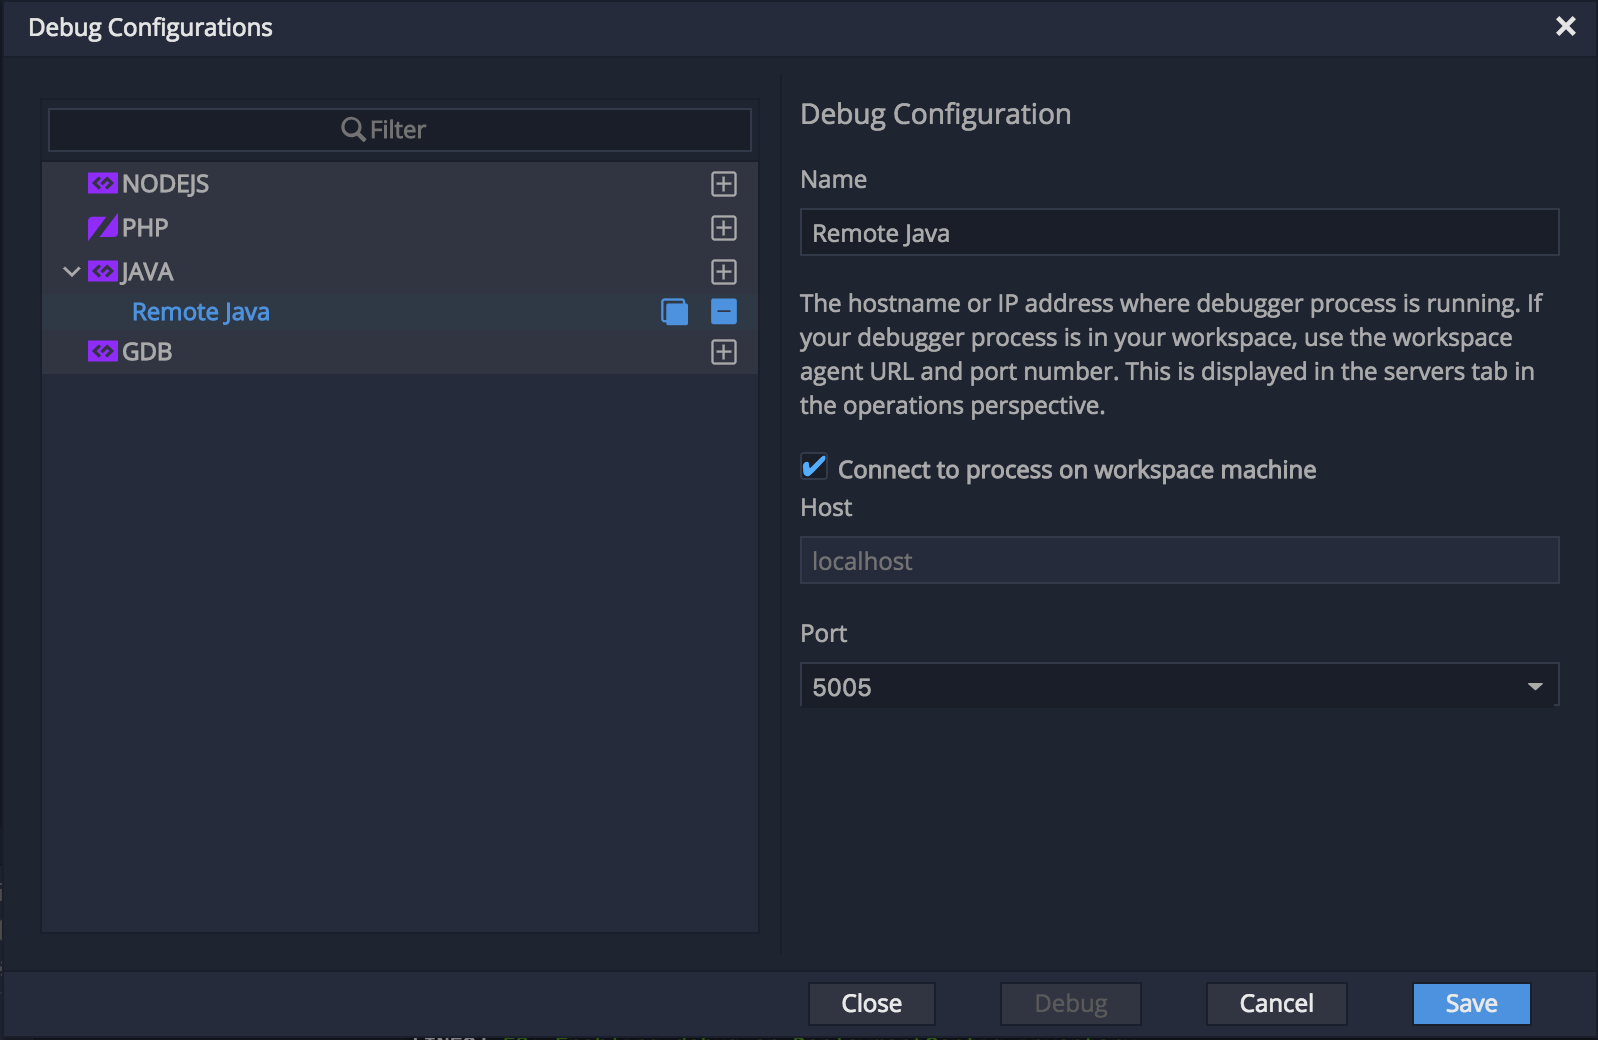
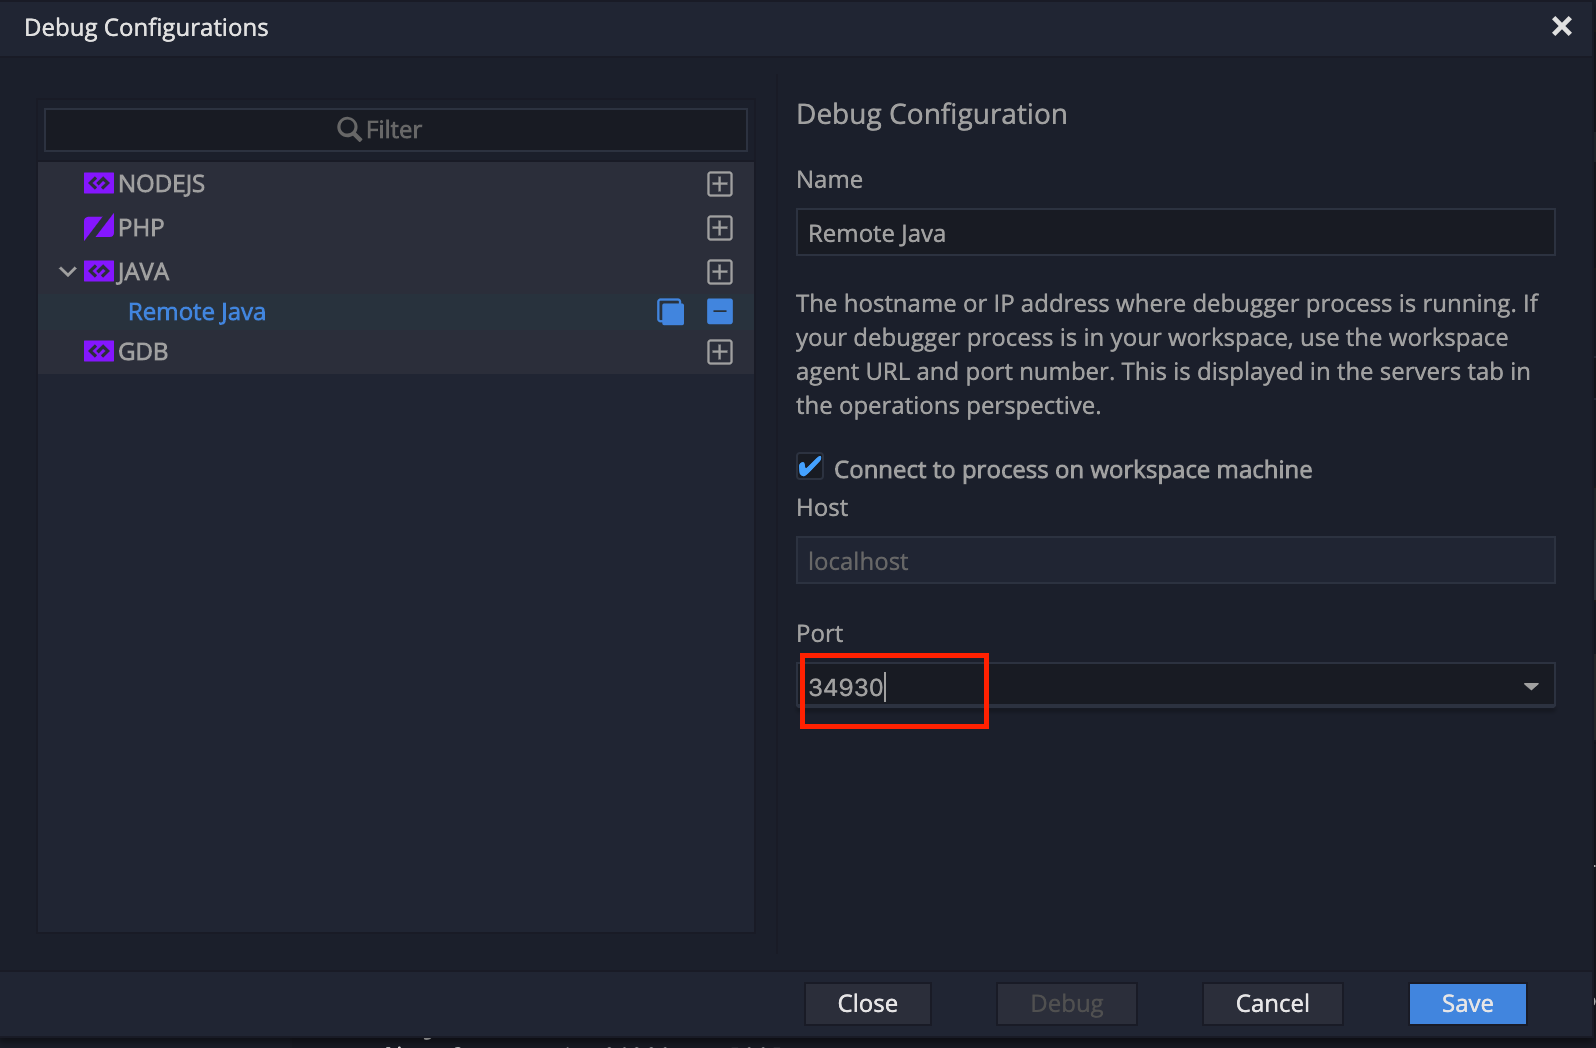
add several images

diff --git a/instructions/squash.md b/instructions/squash.md
@@ -70,9 +70,10 @@ happens when API Gateway makes this call:
 > `{{INVENTORY_ROUTE_HOST}}` with the Inventory route url from your project.
 
 ~~~shell
-$ curl http://{{INVENTORY_ROUTE_HOST}}/api/inventory/444436
+$ curl --verbose http://{{INVENTORY_ROUTE_HOST}}/api/inventory/444436
 ~~~
-
+or use **Command** names **curl inventory GET API**
+![Icons]({% image_path curl-inventory-1.png %}){:width="700px"}
 
 > You can use `curl -v` to see all the headers sent and received. You would received 
 > a `HTTP/1.1 204 No Content` response for the above request.
@@ -128,7 +129,7 @@ NAME                           READY     STATUS    RESTARTS   AGE
 inventory-1-l22lz              2/2       Running   2          26m
 ~~~
 
-Using *squashctl* on the **Terminal** window or you can use the **Command** **Debug Inventory**
+Using *squashctl* on the **Terminal** window or you can use the **Command** **Debug Squash Inventory**
 
 ~~~shell
 $ squashctl --machine --namespace coolstoreXX --debugger java --squash-namespace infraXX
@@ -137,7 +138,11 @@ $ squashctl --machine --namespace coolstoreXX --debugger java --squash-namespace
 
 ~~~
 or 
+![Debug Inventory]({% image_path debug-inventory-0.png %}){:width="450px"}
+
 ![Debug Inventory]({% image_path debug-inventory.png %}){:width="700px"}
+
+![Debug Inventory]({% image_path debug-inventory-1.png %}){:width="700px"}
 
 
 You are all set now to start debugging. 
@@ -145,14 +150,18 @@ You are all set now to start debugging.
 Forward the remote debugging port of the Inventory service locally by executing the following command generated by the command below into **"PortForwardCmd"**:
 
 ~~~shell
-$ kubectl port-forward inventory-3-lqvmt :5005 -n coolstoreXX
-Forwarding from 127.0.0.1:31002 -> 5005
-Forwarding from [::1]:31002 -> 5005
+[user@workspace7gz4p7p2gxch7vps projects]$ kubectl port-forward inventory-3-nc62t :5005 -n coolstore22
+Forwarding from 127.0.0.1:34930 -> 5005
+Forwarding from [::1]:34930 -> 5005
+Handling connection for 34930
 ~~~
 
 Do not wait for the command to return! It keeps the forwarded 
 port open so that you can start debugging remotely.
 
+You can have a look in the infraXX project to see the pod created by squash.
+
+![Squash pod]({% image_path debug-squash-pod.png %}){:width="700px"}
 
 
 
@@ -173,7 +182,7 @@ Java debugger.
 Configure the remote debugger and click on the **Save** button:
 
 * Check **Connect to process on workspace machine**
-* Port: `31002`
+* Port: `34930`
 
 ![Remote Debug]({% image_path debug-che-debug-config-3.png %}){:width="700px"}
 
@@ -182,7 +191,7 @@ Inventory service running on OpenShift.
 
 You should see a confirmation that the remote debugger is successfully connected.
 
-![Remote Debug]({% image_path debug-che-debug-config-4.png %}){:width="360px"}
+![Remote Debug]({% image_path debug-che-debug-config-4.png %}){:width="500px"}
 
 Open `com.redhat.cloudnative.inventory.InventoryResource` and click once
 on the editor sidebar on the line number of the first line of the `getAvailability()` 
@@ -203,11 +212,13 @@ Note that you can use the the following icons to switch between debug and termin
 > `{{INVENTORY_ROUTE_HOST}}` with the Inventory route url from your project.
 
 ~~~
-$ curl -v http://{{INVENTORY_ROUTE_HOST}}/api/inventory/444436
+$ curl --verbose http://{{INVENTORY_ROUTE_HOST}}/api/inventory/444436
 ~~~
-or use **Command** names **curl inventory**
-![Icons]({% image_path curl-inventory.png %}){:width="700px"}
- 
+or use **Command** names **curl inventory GET API**
+![Icons]({% image_path curl-inventory-1.png %}){:width="700px"}
+
+
+![Icons]({% image_path curl-inventory-2.png %}){:width="700px"} 
 
 Switch back to the debug panel and notice that the code execution is paused at the 
 breakpoint on `InventoryResource` class.
@@ -247,8 +258,10 @@ To delete all planks
 ~~~
 squashctl utils delete-planks --squash-namespace infraXX
 ~~~
-or using the **Command** **Delete attachments** 
-![Debug]({% image_path delete-attachments.png %}){:width="900px"}
+or using the **Command** **Delete Squash Attachments** 
+![Debug]({% image_path delete-attachments.png %}){:width="450px"}
+
+![Debug]({% image_path delete-attachments-1.png %}){:width="900px"}
 
 #### Fix the Inventory Bug
 
@@ -280,6 +293,8 @@ to rebuild the container with the code corrected.
 ~~~shell
 $ oc start-build inventory-s2i --from-dir /projects/labs/inventory-thorntail/ --follow 
 ~~~
+or use **Command** names **Build inventory Service**
+![Build Inventory]({% image_path build-inventory-service.png %}){:width="700px"}
 
 
 When the container is rebuilt and deployed, point your browser at the Web route and verify 
